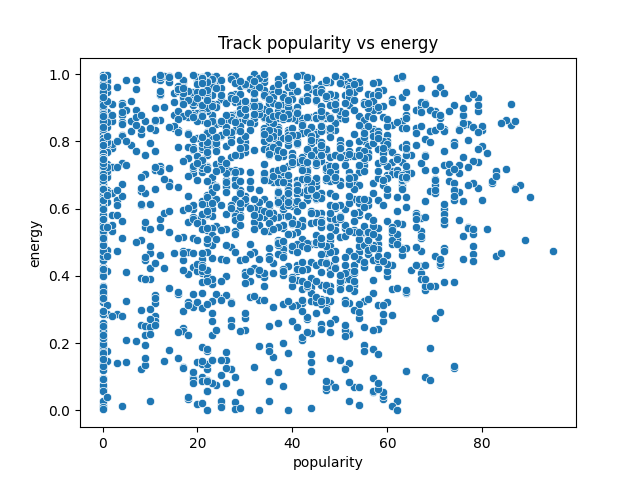
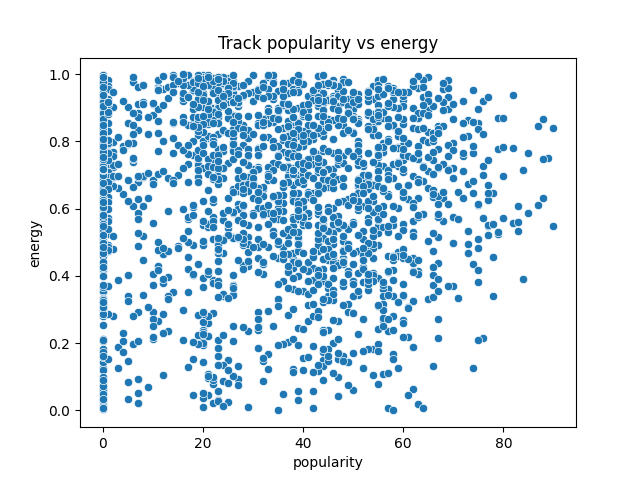
Fix file path issues

diff --git a/analysis.py b/analysis.py
@@ -1,8 +1,11 @@
 import pandas as pd
 import matplotlib.pyplot as plt
 import seaborn as sns
+from pathlib import Path
 
-spotify_df=pd.read_csv('dataset.csv')
+BASE_DIR = Path(__file__).resolve().parent
+spotify_df = pd.read_csv(BASE_DIR / 'dataset.csv')
+
 # print('columns:',spotify_df.columns)
 # print('shape:',spotify_df.shape)
 # print('info:',spotify_df.info())
@@ -65,7 +68,7 @@ plt.hist(clean_df.popularity_category)
 plt.xlabel('Popularity category')
 plt.ylabel('No. of songs')
 plt.title('Histogram of popularity')
-plt.savefig('output/histogram_of_popularity.png')
+plt.savefig(BASE_DIR / 'output' / 'histogram_of_popularity.png')
 plt.show()
 
 
@@ -75,7 +78,7 @@ sns.barplot(top_5_genre)
 plt.xlabel('Genre')
 plt.ylabel('Average popularity')
 plt.title('Top genres')
-plt.savefig('output/top_genres.png')
+plt.savefig(BASE_DIR / 'output' / 'top_genres.png')
 plt.show()
 
 sample_df=clean_df.sample(2000)
@@ -88,12 +91,12 @@ sns.scatterplot(x='popularity',y='danceability',data=sample_df)
 plt.title('Track popularity vs danceability')
 plt.xlabel('Popularity')
 plt.ylabel('Danceability')
-plt.savefig('output/scatter_popularity_vs_danceability.png')
+plt.savefig(BASE_DIR / 'output' / 'scatter_popularity_vs_danceability.png')
 plt.show()
 
 # # Scatter -> popularity vs energy
 sns.scatterplot(x='popularity',y='energy',data=sample_df)
 plt.title('Track popularity vs energy')
-plt.savefig('output/scatter_popularity_vs_energy.png')
+plt.savefig(BASE_DIR / 'output' / 'scatter_popularity_vs_energy.png')
 plt.show()
 

diff --git a/README.md b/README.md
@@ -19,12 +19,15 @@ Link: https://www.kaggle.com/datasets/maharshipandya/-spotify-tracks-dataset
 ## Graphs
 
 -History of popularity:
+
 ![alt text](output/histogram_of_popularity.png)
 
 Track popularity vs danceability:
+
 ![alt text](output/scatter_popularity_vs_danceability.png)
 
 Track popularity vs energy:
+
 ![alt text](output/scatter_popularity_vs_energy.png)
 
 Top genres: